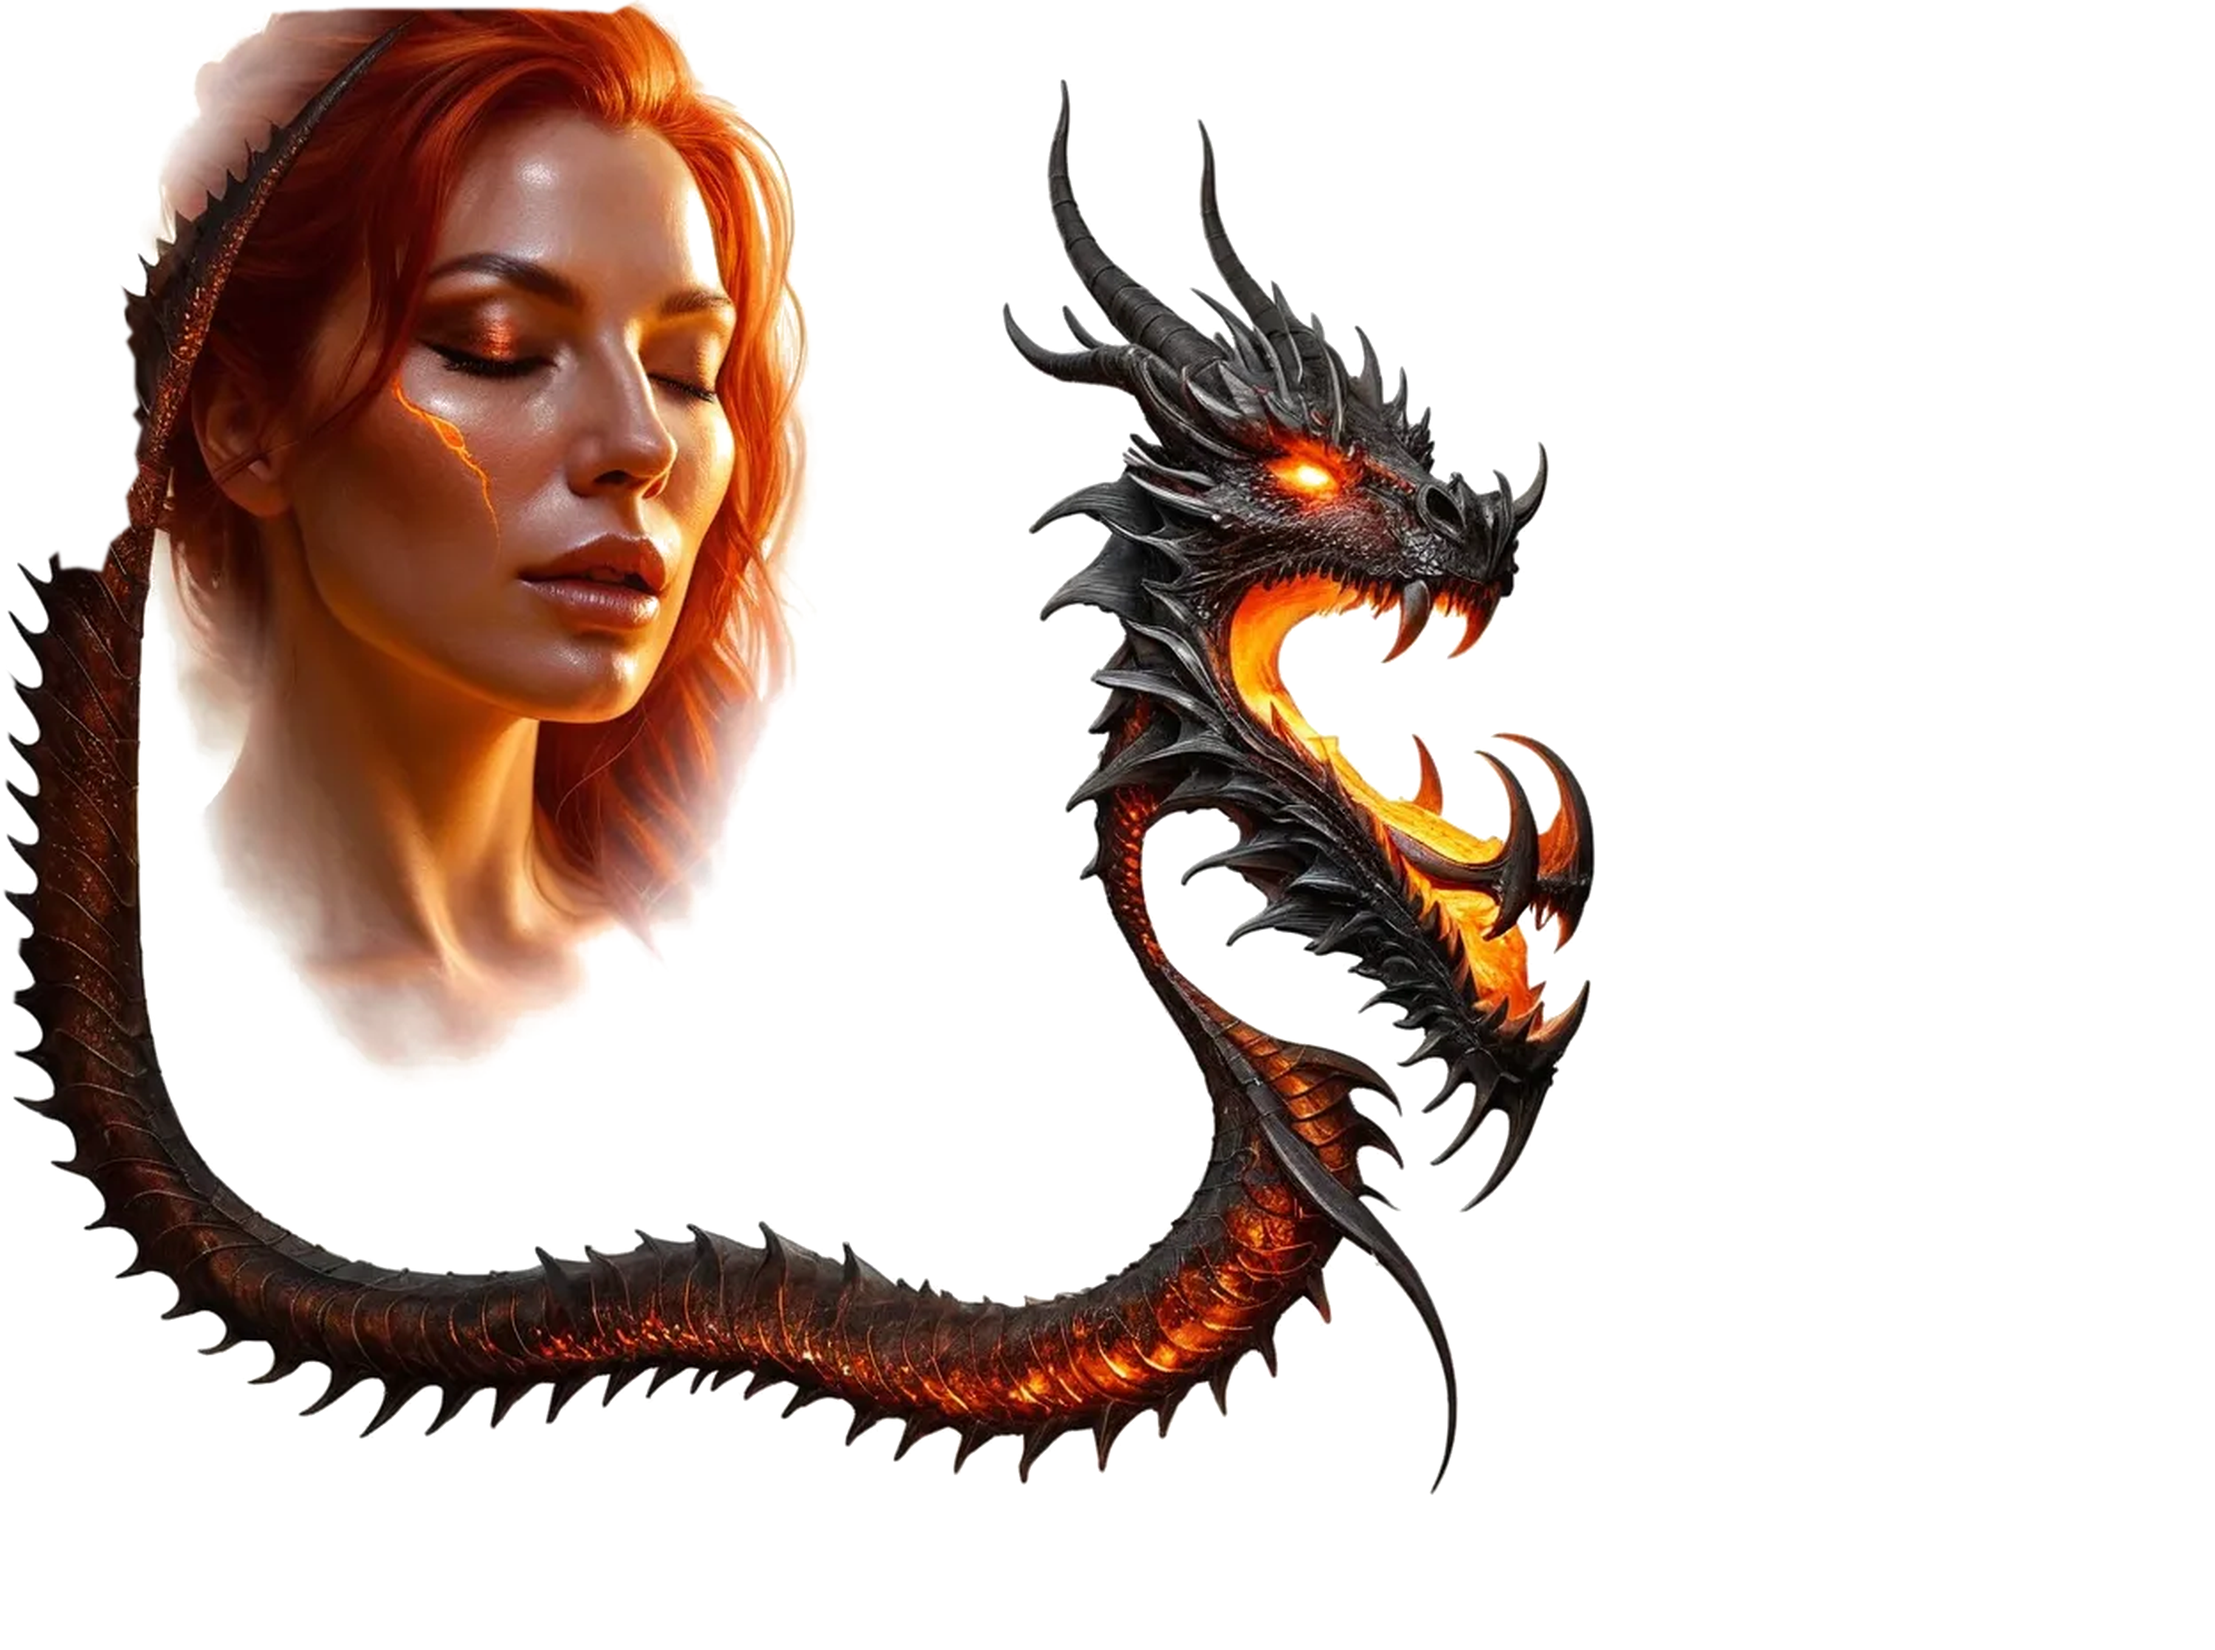
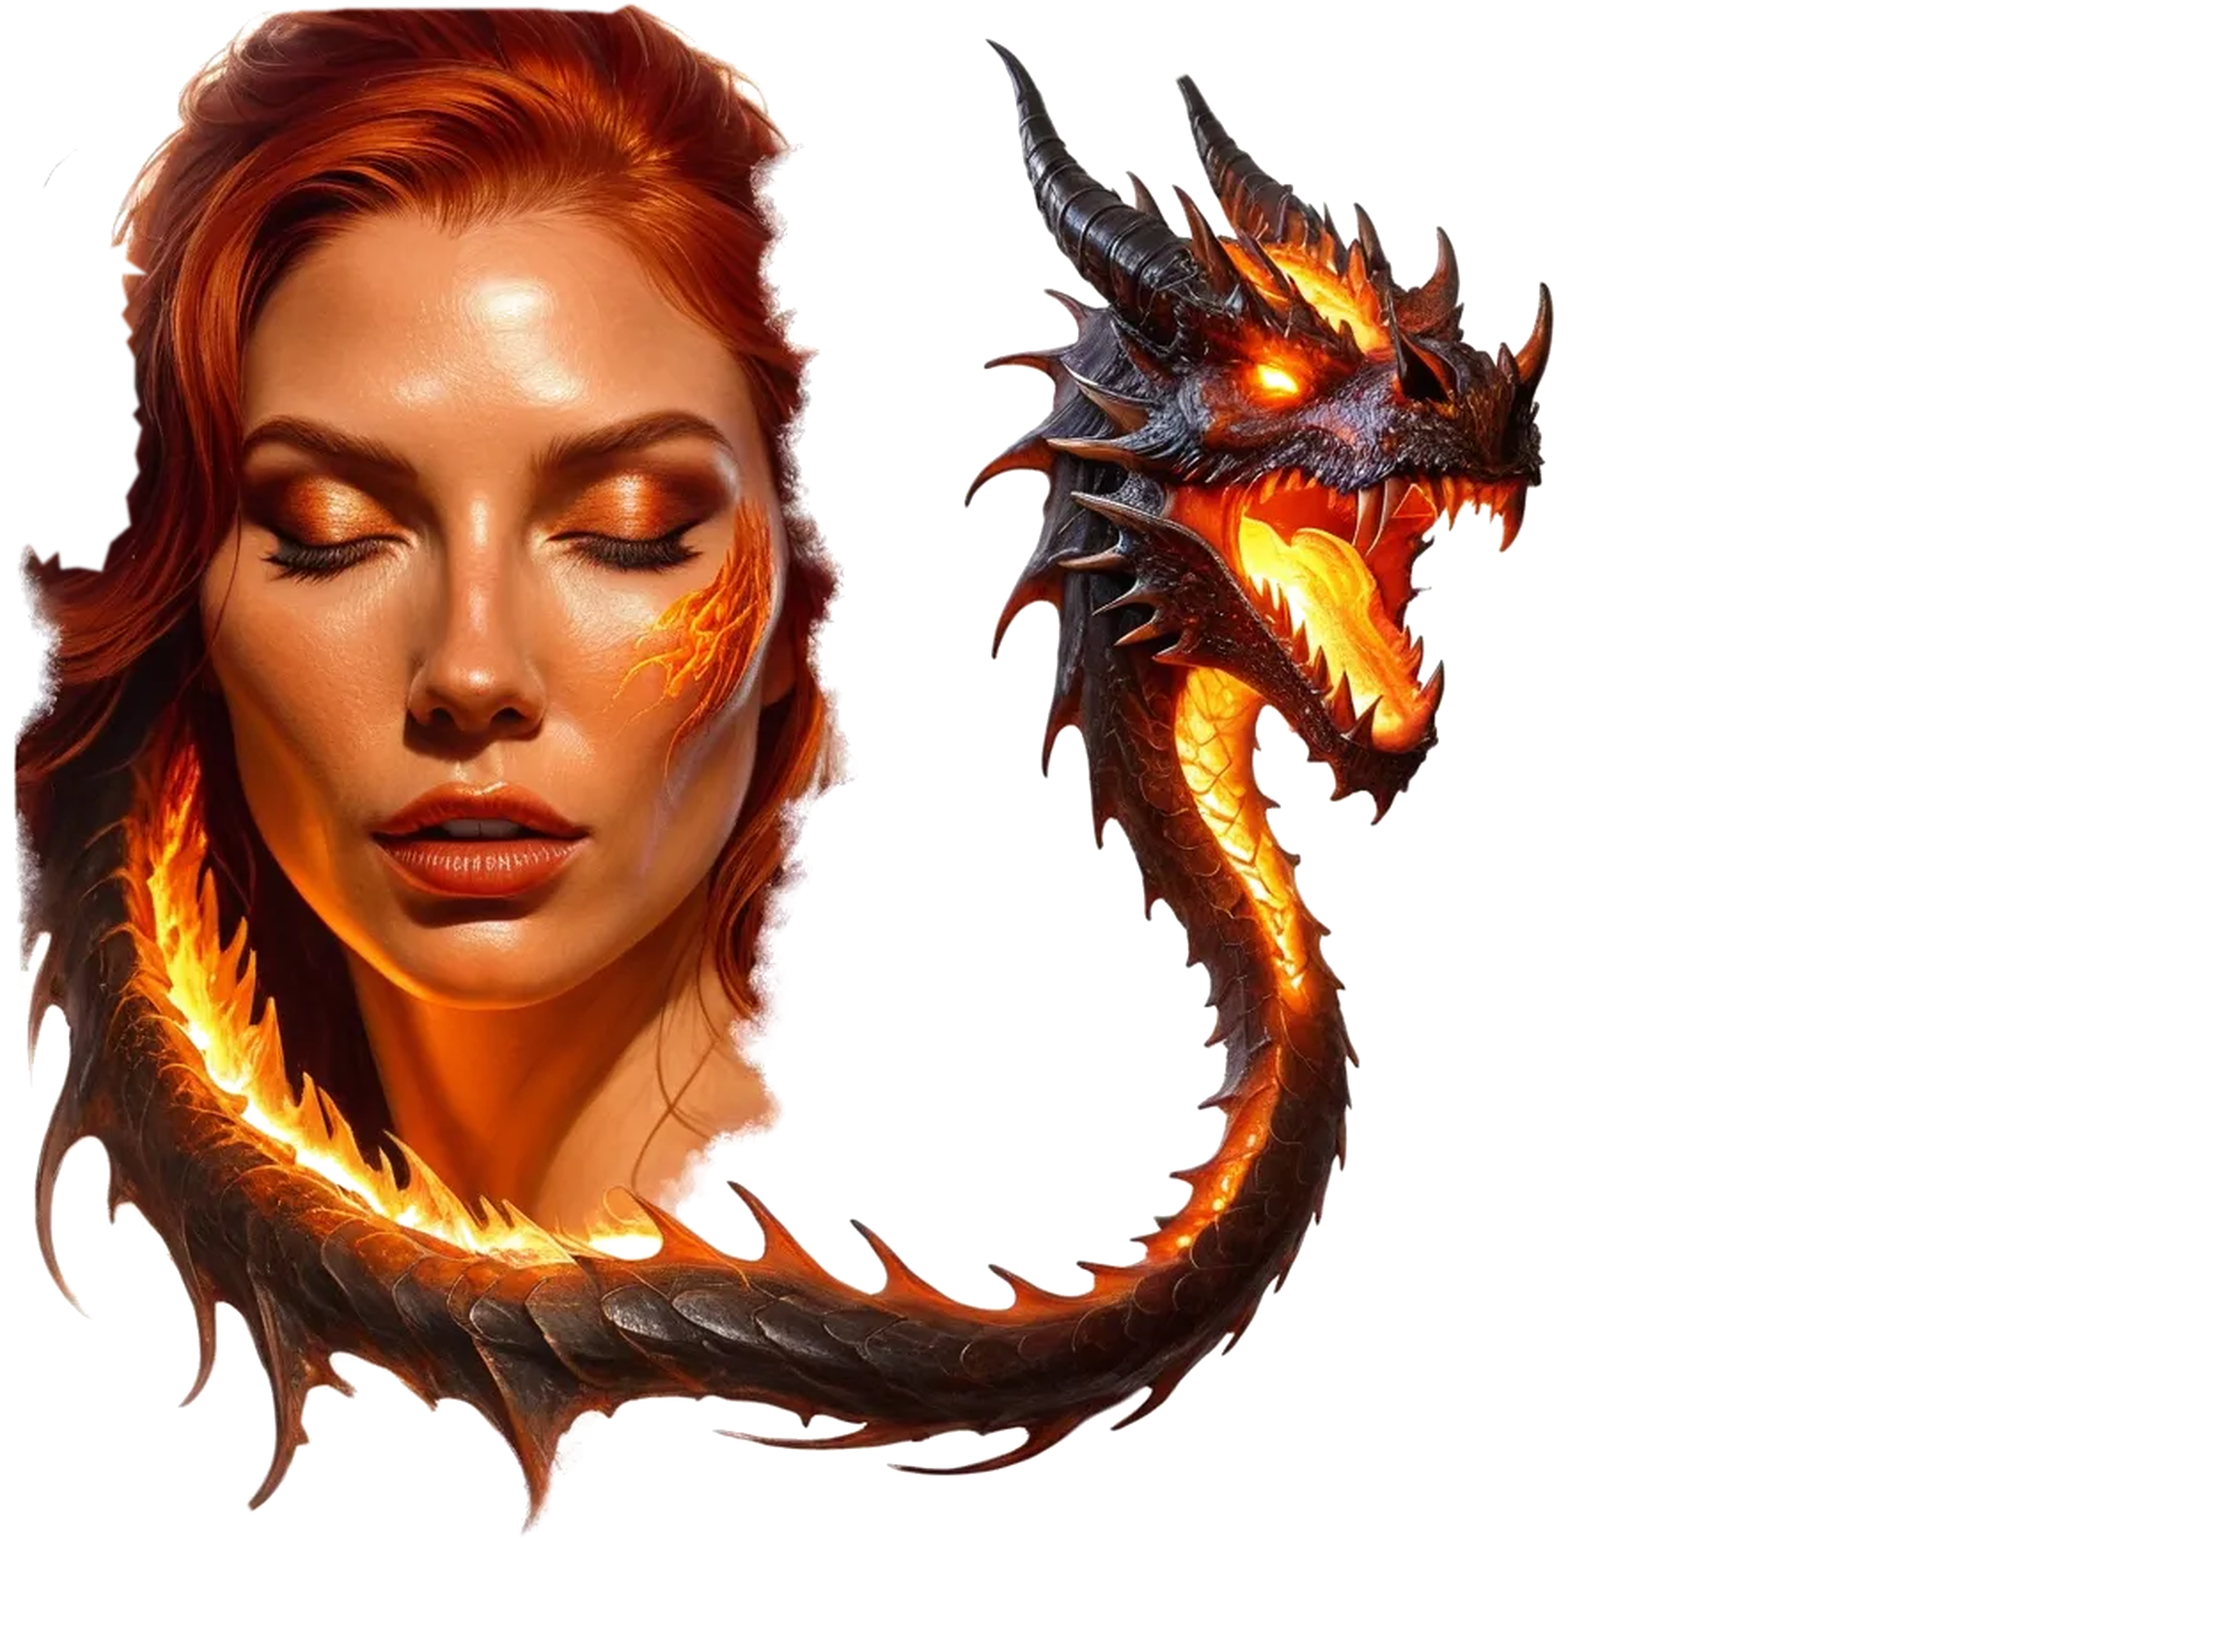
Tutu: one composition generated from scratch on the around-the-torso canvas (colour-zone guide, no reused images)
Claude-Session: https://claude.ai/code/session_01SVnjTQfE8Du7CnCgFi8Pj9

diff --git a/tutu/web/src/main.ts b/tutu/web/src/main.ts
@@ -974,7 +974,8 @@ async function openState(state: ProjectState, name: string) {
 
 /** Ready-made example projects shipped next to the page (browser build). */
 const EXAMPLES = [
-  { id: "wrap", name: "Одна композиція навколо тулуба: дракон + обличчя" },
+  { id: "wrap", name: "Одна композиція навколо тулуба (з нуля, варіант 1)" },
+  { id: "wrap-2", name: "Одна композиція навколо тулуба (з нуля, варіант 2)" },
   { id: "chest-back", name: "Дракон на грудях + обличчя на спині (живопис, світло)" },
   { id: "dragon-color", name: "Дракон у кольорі + портрет (генерація однією композицією)" },
   { id: "dragon", name: "Дракон ч/б + портрет (зібраний з частин)" },

diff --git a/tutu/server/scripts/example_wrap_blocks.py b/tutu/server/scripts/example_wrap_blocks.py
@@ -1,0 +1,28 @@
+"""Rough colour blocks on the around-the-torso canvas: only WHERE things go, no old images."""
+import json, re
+import numpy as np
+from PIL import Image, ImageDraw, ImageFilter
+I = json.load(open('/tmp/claude-0/e2e/info-wrap.json'))
+S = 1024/820; GW, GH = 1024, 896
+g = Image.new('RGB', (GW, GH), 'white'); d = ImageDraw.Draw(g)
+def P(pts): return [(x*S, y*S) for x, y in pts]
+# hair mass behind the face (back, centre ~200)
+d.ellipse(P([(40, -40), (370, 560)]), fill=(150, 55, 25))
+# face oval, lit from the upper left
+d.ellipse(P([(110, 60), (300, 400)]), fill=(225, 165, 120))
+d.ellipse(P([(120, 70), (230, 260)]), fill=(250, 205, 150))
+# dragon body: chest -> belly -> right side -> lower back -> up the left side of the back
+body = [(585, 430), (560, 560), (490, 615), (410, 610), (330, 590), (240, 600), (140, 590), (60, 520), (40, 400), (45, 270), (70, 150), (130, 70)]
+d.line(P(body), fill=(35, 25, 22), width=int(62*S), joint='curve')
+d.line(P(body), fill=(150, 60, 20), width=int(14*S), joint='curve')
+# dragon head on the right chest: dark wedge, open jaws, warm glow inside
+d.polygon(P([(470, 60), (560, 70), (690, 160), (700, 210), (620, 230), (560, 300), (600, 420), (540, 440), (500, 330), (470, 220)]), fill=(30, 22, 20))
+d.polygon(P([(560, 230), (690, 215), (640, 330), (580, 330)]), fill=(240, 120, 30))
+d.ellipse(P([(585, 125), (605, 145)]), fill=(255, 150, 40))
+g = g.filter(ImageFilter.GaussianBlur(6))
+g.save('/tmp/claude-0/wrap3/blocks.png')
+p = g.copy(); dp = ImageDraw.Draw(p)
+for sg in I['outline'].split('M')[1:]:
+    nums = list(map(float, re.findall(r'-?\d+\.?\d*', sg)))
+    dp.line([(x*S, y*S) for x, y in zip(nums[0::2], nums[1::2])] + [(nums[0]*S, nums[1]*S)], fill=(160, 160, 160), width=2)
+p.save('/tmp/claude-0/wrap3/blocks-preview.png'); print('ok')
